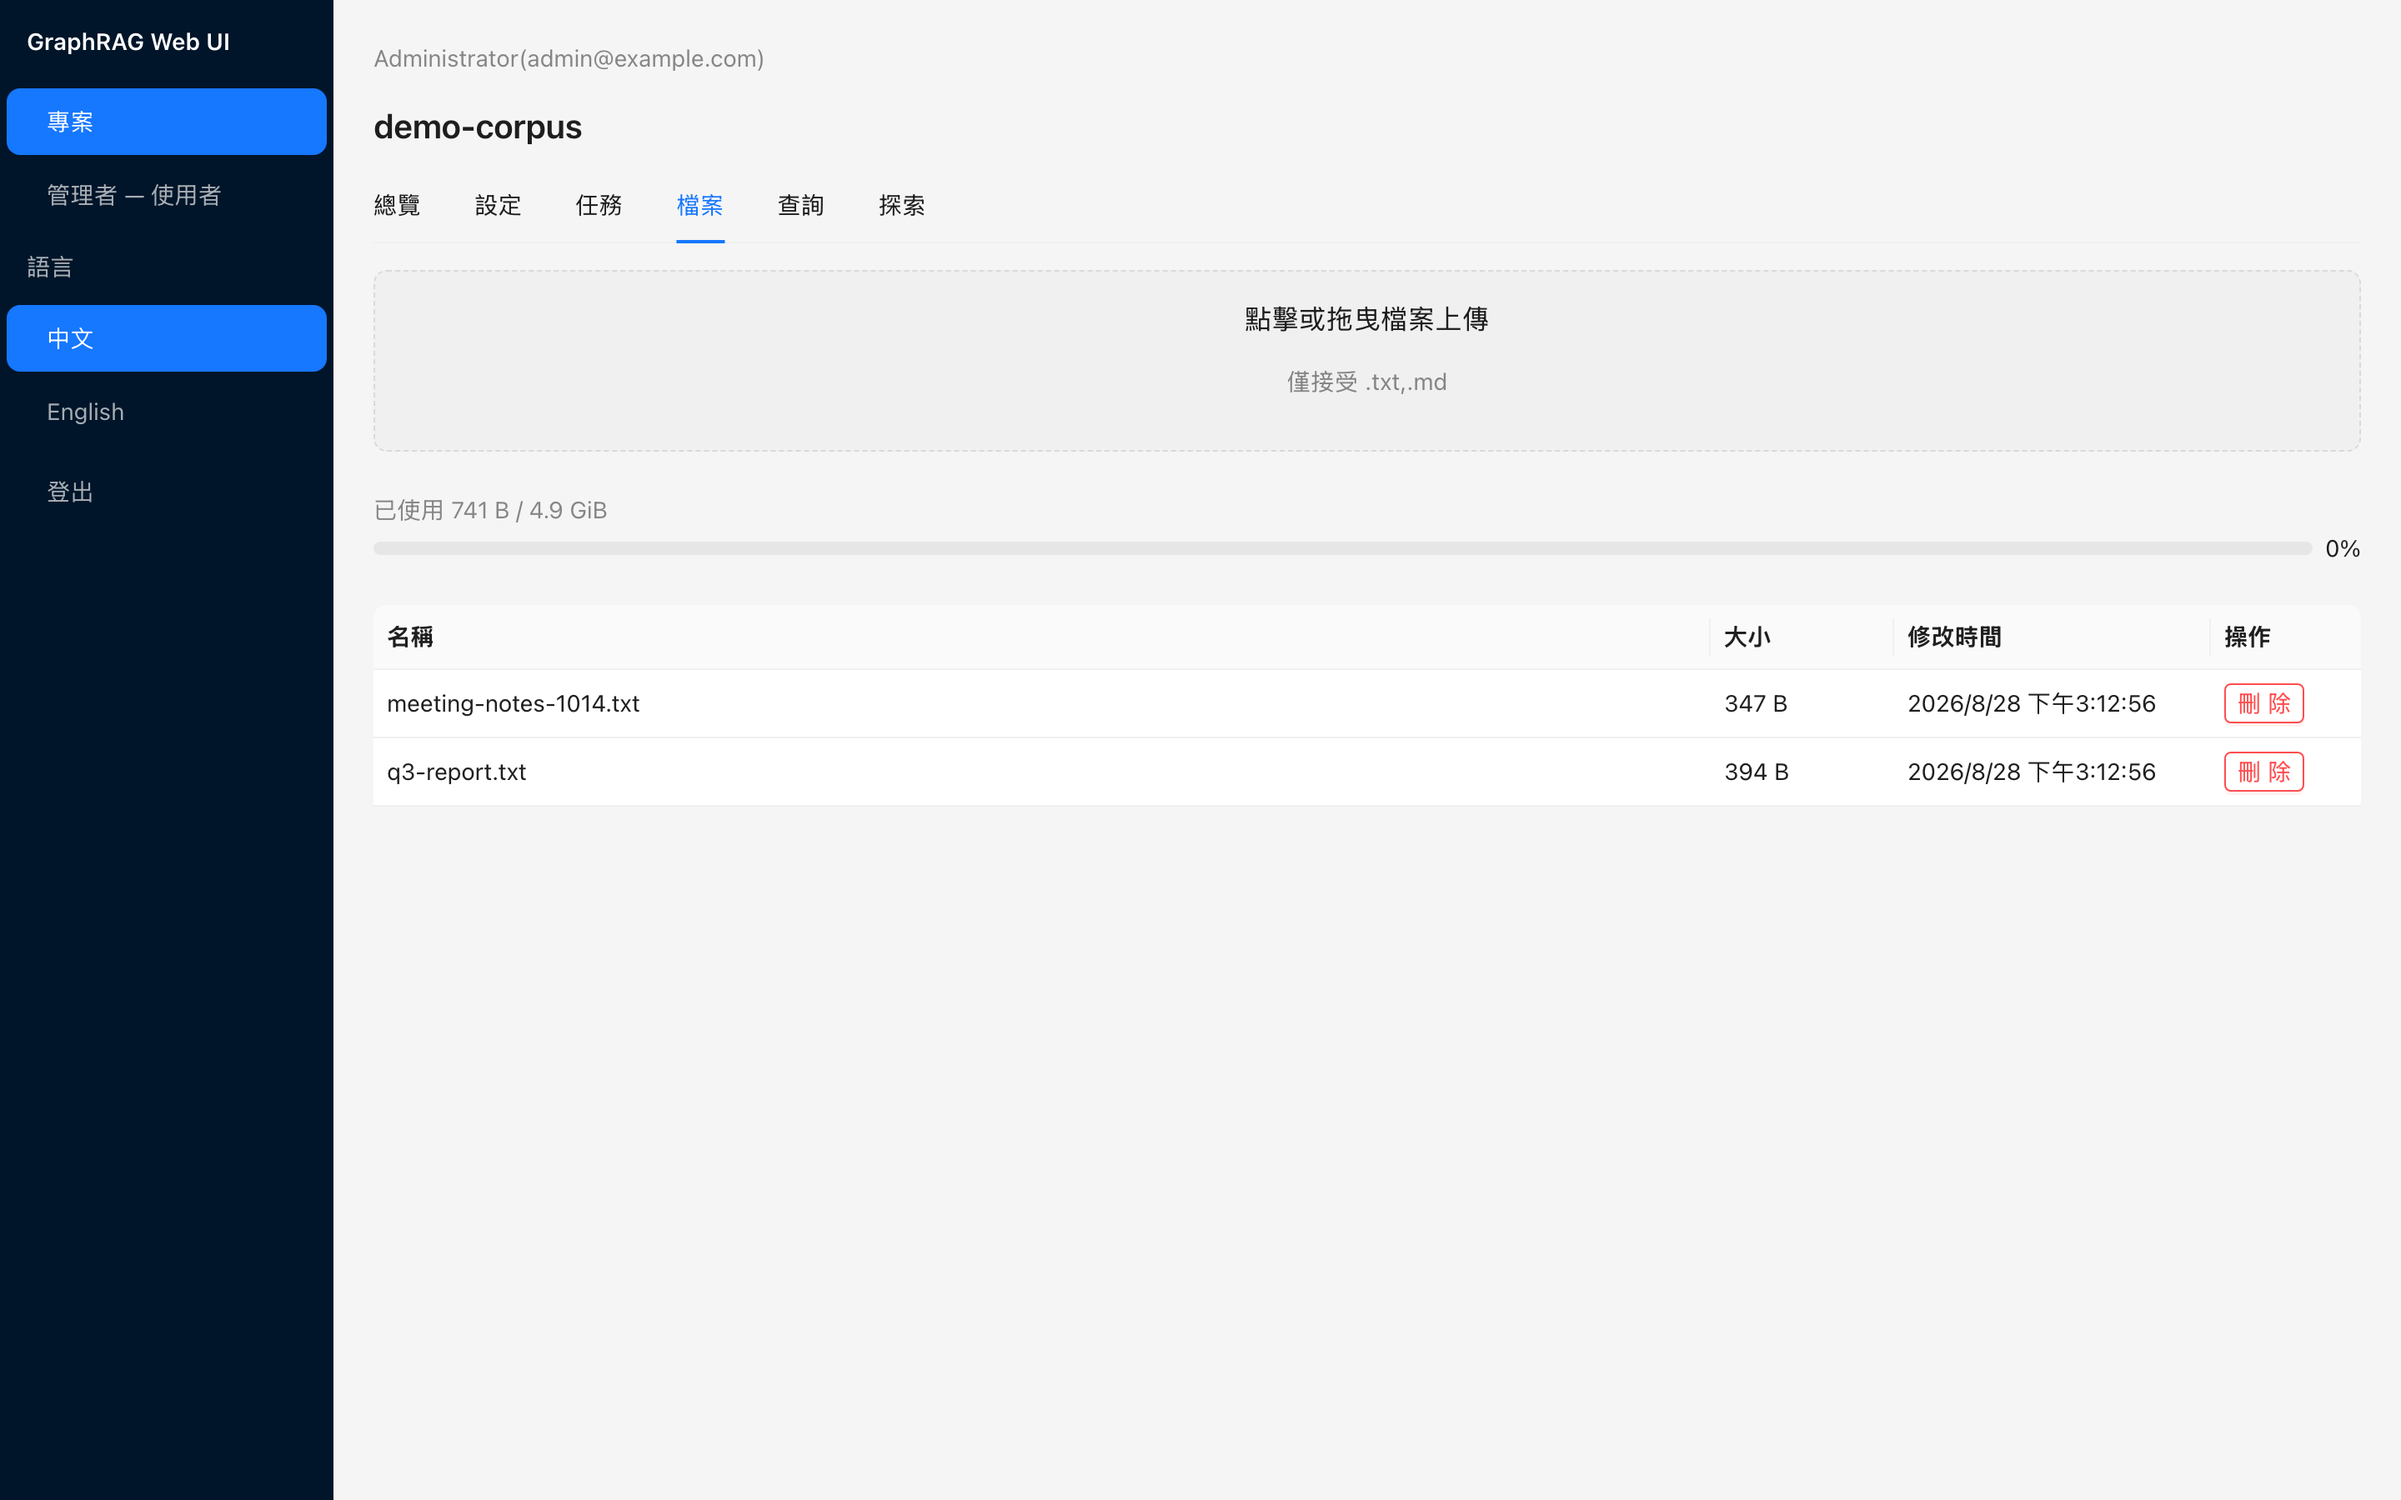
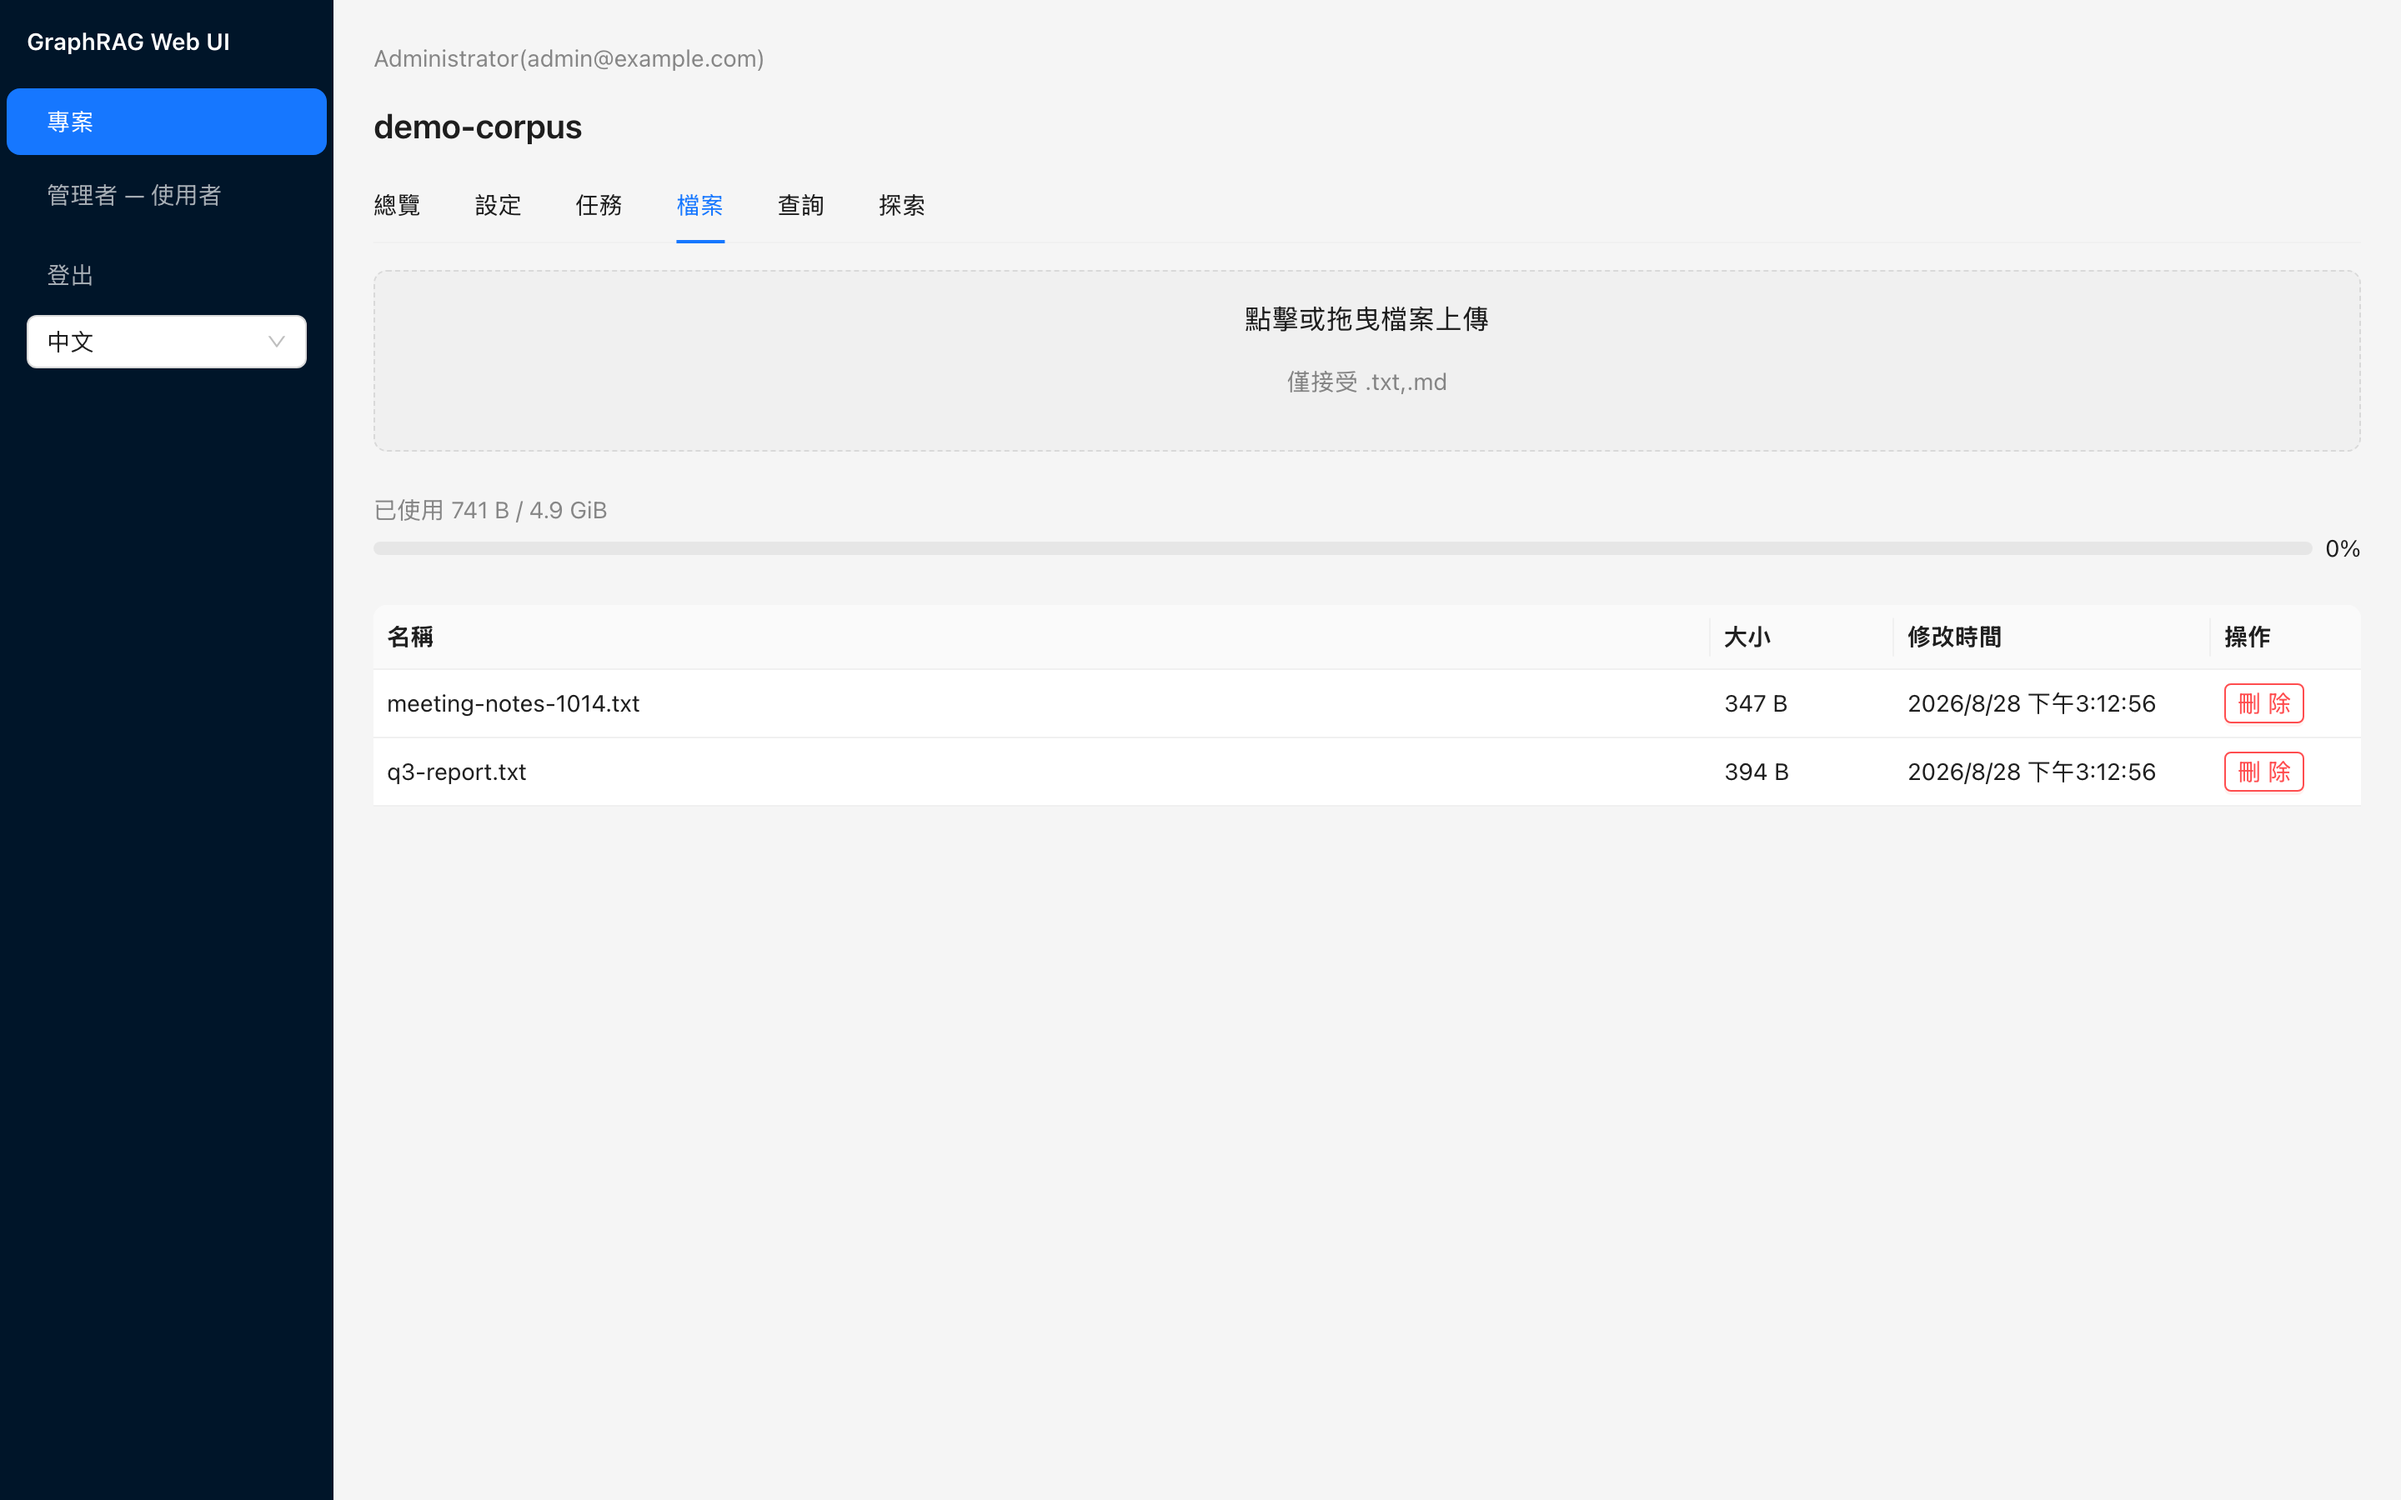
fix(ui): language dropdown at the very bottom-left of the sidebar
The group-titled menu rows read as more navigation and sat above Log
out, leaving the language control off the bottom-left corner the design
called for. Replace them with a Select dropdown as the last Sider
element: logout moves up one slot (marginTop:auto now on it), and the
combobox shows the current language, opens to 中文/English, and is
labelled 語言/Language for a11y. Layout test drives the open-pick
interaction instead of clicking the old inline rows.

Changed region(s): [[0.0, 0.1556, 0.1562, 0.2489]]

diff --git a/frontend/src/components/Layout.tsx b/frontend/src/components/Layout.tsx
@@ -1,6 +1,6 @@
 import { useEffect } from "react";
 import { useTranslation } from "react-i18next";
-import { Layout as AntLayout, Menu, Typography } from "antd";
+import { Layout as AntLayout, Menu, Select, Typography } from "antd";
 import { Outlet, useLocation, useNavigate } from "react-router-dom";
 import { useAuth } from "../stores/auth";
 
@@ -39,29 +39,30 @@ export default function Layout() {
         <Menu
           theme="dark"
           mode="inline"
-          selectedKeys={[i18n.language]}
-          onClick={({ key }) => { void i18n.changeLanguage(key); }}
-          items={[{
-            key: "language", type: "group", label: t("layout.language"),
-            children: [
-              { key: "zh-TW", label: "中文" },
-              { key: "en-US", label: "English" },
-            ],
-          }]}
-          // marginTop:auto pushes the language menu (and the logout menu
-          // below it) to the Sider bottom; the logout Menu DROPS its own
-          // marginTop:"auto" — two auto margins would split the free space
-          // and park the switcher mid-column instead of above logout.
-          // The language keys double as i18n language codes.
-          style={{ marginTop: "auto" }}
-        />
-        <Menu
-          theme="dark"
-          mode="inline"
           selectable={false}
           items={[{ key: "logout", label: t("layout.logout") }]}
           onClick={() => { logout().catch(() => {}).finally(() => navigate("/login")); }}
+          // marginTop:auto pushes logout (and the language select below it)
+          // to the Sider bottom; the language select must NOT add its own
+          // auto margin — two autos would split the free space and park
+          // logout mid-column.
+          style={{ marginTop: "auto" }}
         />
+        {/* Language dropdown at the very bottom-left corner. Option values
+            are the i18n language codes themselves. */}
+        <div style={{ padding: "0 16px 16px" }}>
+          <Select
+            aria-label={t("layout.language")}
+            value={i18n.language}
+            onChange={(v) => { void i18n.changeLanguage(v); }}
+            options={[
+              { value: "zh-TW", label: "中文" },
+              { value: "en-US", label: "English" },
+            ]}
+            popupMatchSelectWidth={false}
+            style={{ width: "100%" }}
+          />
+        </div>
       </AntLayout.Sider>
       <AntLayout.Content style={{ padding: 24 }}>
         <Typography.Text type="secondary">{user?.display_name}({user?.email})</Typography.Text>

diff --git a/frontend/src/components/__tests__/Layout.test.tsx b/frontend/src/components/__tests__/Layout.test.tsx
@@ -17,13 +17,18 @@ function mount() {
 
 afterEach(async () => { await i18n.changeLanguage("zh-TW"); });
 
-it("switcher toggles nav copy and documentElement.lang", async () => {
+it("language dropdown toggles nav copy and documentElement.lang", async () => {
   mount();
   expect(screen.getByText("專案")).toBeInTheDocument();
-  await userEvent.setup().click(screen.getByText("English"));
+  // the selector is a Select dropdown at the Sider bottom: open it, then
+  // pick the option — the closed control only shows the current language
+  const user = userEvent.setup();
+  await user.click(screen.getByRole("combobox", { name: "語言" }));
+  await user.click(await screen.findByText("English"));
   expect(screen.getByText("Projects")).toBeInTheDocument();
   expect(document.documentElement.lang).toBe("en-US");
-  await userEvent.setup().click(screen.getByText("中文"));
+  await user.click(screen.getByRole("combobox", { name: "Language" }));
+  await user.click(await screen.findByText("中文"));
   expect(screen.getByText("專案")).toBeInTheDocument();
   expect(document.documentElement.lang).toBe("zh-TW");
 });
